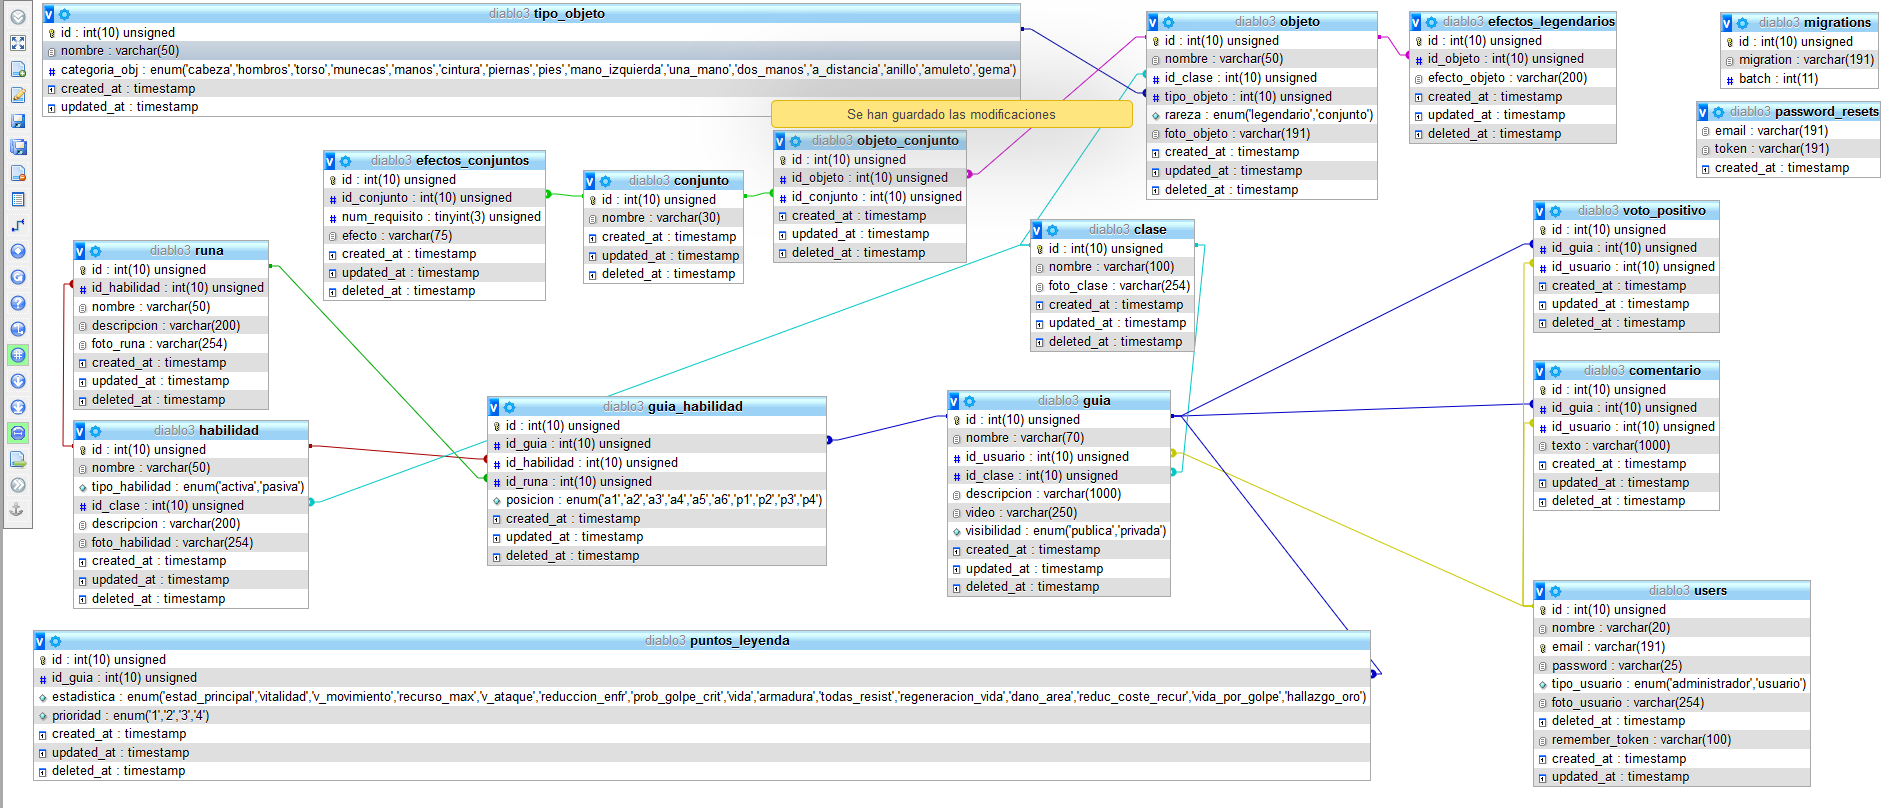
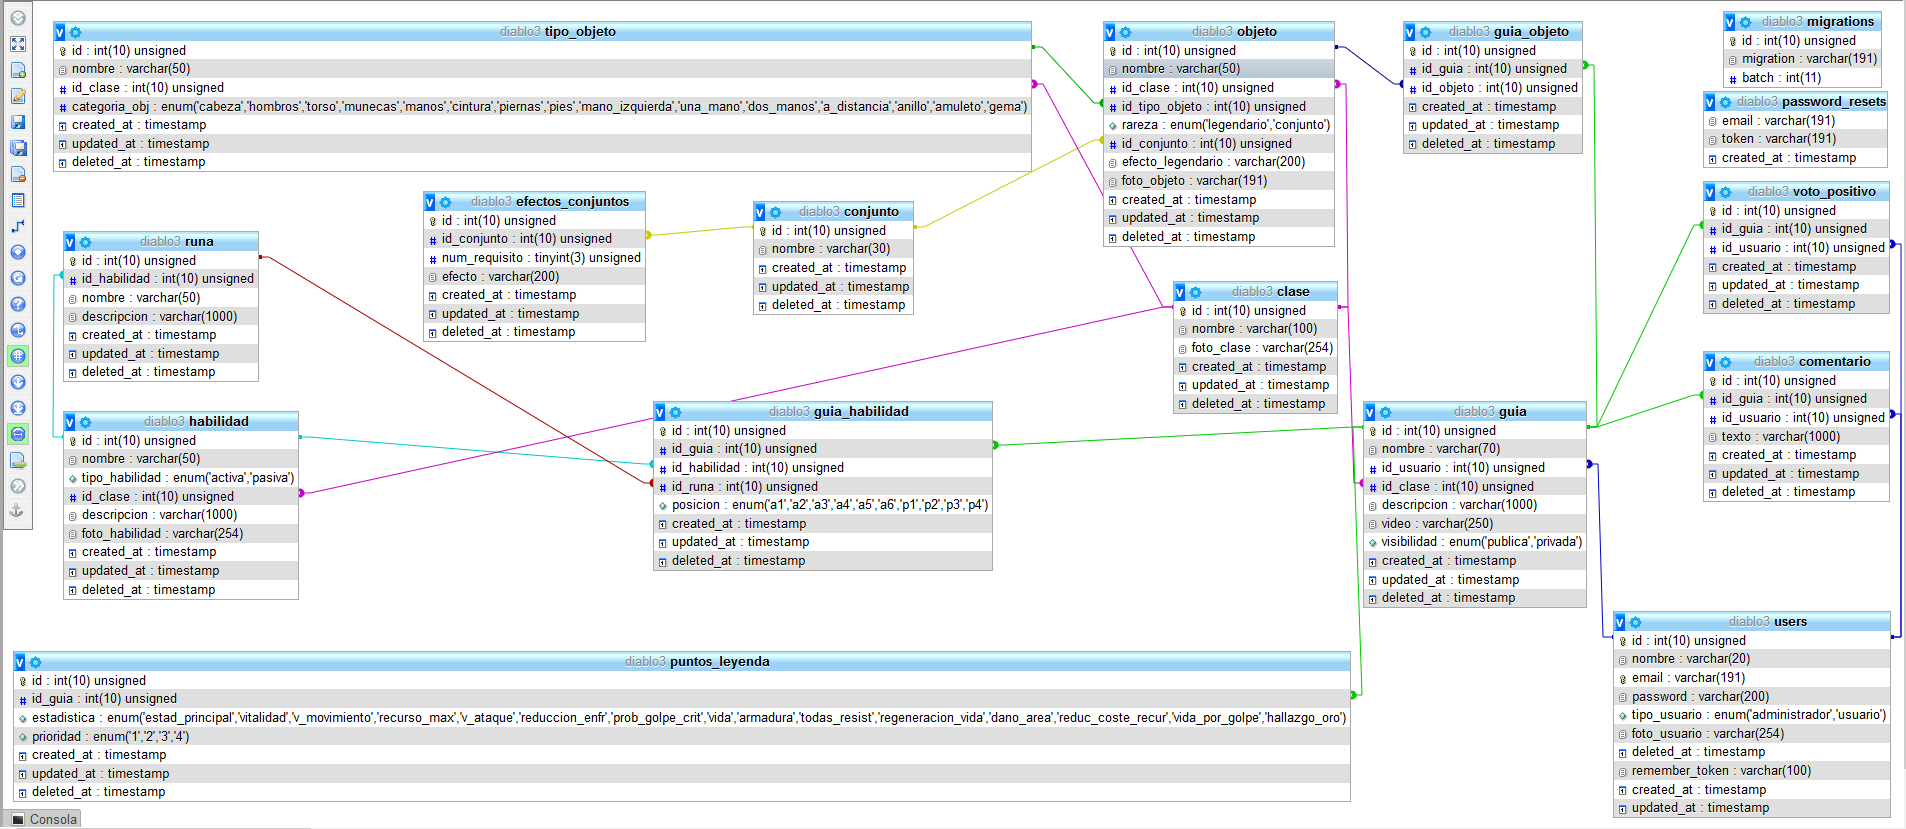
** Creación del modelo Guia, con sus relaciones básicas y enrutamiento de modelo **

diff --git a/app/Guia.php b/app/Guia.php
@@ -3,8 +3,115 @@
 namespace App;
 
 use Illuminate\Database\Eloquent\Model;
+use Illuminate\Database\Eloquent\SoftDeletes;
+use Illuminate\Http\Request;
+use Hashids;
 
 class Guia extends Model
 {
-    //
+    use SoftDeletes;
+
+    /**
+    * The table associated with the model.
+    *
+    * @var string
+    */
+    protected $table = 'guia';
+
+    /**
+    * The attributes that should be mutated to dates.
+    *
+    * @var array
+    */
+    protected $dates = ['deleted_at', 'created_at', 'updated_at'];
+
+    /**
+    * The storage format of the model's date columns.
+    *
+    * @var string
+    */
+    // protected $dateFormat = 'j/n/Y g:i a';
+
+    /**
+    * The attributes that are mass assignable.
+    *
+    * @var array
+    */
+    protected $fillable = [
+      'nombre', 'id_usuario', 'id_clase', 'descripcion', 'video', 'visibilidad',
+    ];
+
+    /**
+    * The attributes that should be hidden for arrays.
+    *
+    * @var array
+    */
+    protected $hidden = [ ];
+
+    /**********************************************************/
+    /***************** Relationships **************************/
+    /**********************************************************/
+
+    /**
+    * Relationship
+    */
+    public function usuario()
+    {
+      return $this->belongsTo('App\User', 'id_usuario', 'id');
+    }
+
+    /**
+    * Relationship
+    */
+    public function clase()
+    {
+      return $this->belongsTo('App\Clase', 'id_clase', 'id');
+    }
+
+    /**
+    * Relationship
+    */
+    public function objeto()
+    {
+      return $this->belongsToMany('App\Objeto', 'guia_objeto', 'id_guia', 'id_objeto');
+    }
+
+    /**
+    * Relationship
+    */
+    public function habilidad()
+    {
+      return $this->belongsToMany('App\Objeto', 'guia_habilidad', 'id_guia', 'id_habilidad');
+    }
+
+    /**
+    * Relationship
+    */
+    public function runa()
+    {
+      return $this->belongsToMany('App\Runa', 'guia_habilidad', 'id_guia', 'id_runa');
+    }
+
+    /**
+    * Get the value of the model's route key.
+    *
+    * @return mixed
+    */
+    public function getRouteKey()
+    {
+      $hashids = new \Hashids\Hashids('No se me ocurre una salt, soy muy original', 10);
+
+      return $hashids->encode($this->getKey());
+    }
+
+    /**
+    * Update the attributes of the model instance
+    *
+    * @param             $new_values
+    * @return
+    */
+    public function edit($new_values)
+    {
+      $this->update($new_values);
+    }
 }

diff --git a/database/migrations/2018_04_03_151829_create_guia_objeto_table.php b/database/migrations/2018_04_03_151829_create_guia_objeto_table.php
@@ -1,0 +1,40 @@
+<?php
+
+use Illuminate\Support\Facades\Schema;
+use Illuminate\Database\Schema\Blueprint;
+use Illuminate\Database\Migrations\Migration;
+
+class CreateGuiaObjetoTable extends Migration
+{
+    /**
+     * Run the migrations.
+     *
+     * @return void
+     */
+    public function up()
+    {
+        Schema::create('guia_objeto', function (Blueprint $table) {
+            $table->increments('id');
+            $table->integer('id_guia')->unsigned();
+            $table->integer('id_objeto')->unsigned();
+            $table->timestamps();
+            $table->softDeletes();
+
+            $table->foreign('id_guia')->references('id')->on('guia');
+            $table->foreign('id_objeto')->references('id')->on('objeto');
+        });
+    }
+
+    /**
+     * Reverse the migrations.
+     *
+     * @return void
+     */
+    public function down()
+    {
+        $table->dropForeign('guia_obejto_id_objeto_foreign');
+        $table->dropForeign('guia_objeto_id_guia_foreign');
+
+        Schema::dropIfExists('guia_objeto');
+    }
+}

diff --git a/database/migrations/2018_01_23_020937_create_guia_habilidad_table.php b/database/migrations/2018_01_23_020937_create_guia_habilidad_table.php
@@ -17,7 +17,7 @@ class CreateGuiaHabilidadTable extends Migration
             $table->increments('id');
             $table->integer('id_guia')->unsigned();
             $table->integer('id_habilidad')->unsigned();
-            $table->integer('id_runa')->unsigned();
+            $table->integer('id_runa')->unsigned()->nullable();
             $table->enum('posicion', ['a1', 'a2', 'a3', 'a4', 'a5', 'a6', 'p1', 'p2', 'p3', 'p4']);
             $table->timestamps();
             $table->softDeletes();

diff --git a/app/Providers/RouteServiceProvider.php b/app/Providers/RouteServiceProvider.php
@@ -96,6 +96,15 @@ class RouteServiceProvider extends ServiceProvider
           return \App\EfectoConjunto::withTrashed()->findOrFail($id);
         });
 
+        Route::bind('guia', function($value, $route)
+        {
+          $hashids = new Hashids\Hashids('No se me ocurre una salt, soy muy original', 10);
+
+          $id = $hashids->decode($value)[0];
+
+          return \App\Guia::withTrashed()->findOrFail($id);
+        });
+
         parent::boot();
     }
 

diff --git a/app/Objeto.php b/app/Objeto.php
@@ -71,6 +71,14 @@ class Objeto extends Model
   }
 
   /**
+  * Relationship
+  */
+  public function objeto()
+  {
+    return $this->belongsToMany('App\Guia', 'guia_objeto', 'id_objeto', 'id_guia');
+  }
+
+  /**
   * Get the value of the model's route key.
   *
   * @return mixed

diff --git a/app/Runa.php b/app/Runa.php
@@ -62,6 +62,14 @@ class Runa extends Model
   }
 
   /**
+  * Relationship
+  */
+  public function guia()
+  {
+    return $this->belongsToMany('App\Guia', 'guia_habilidad', 'id_runa', 'id_guia');
+  }
+
+  /**
   * Get the value of the model's route key.
   *
   * @return mixed
